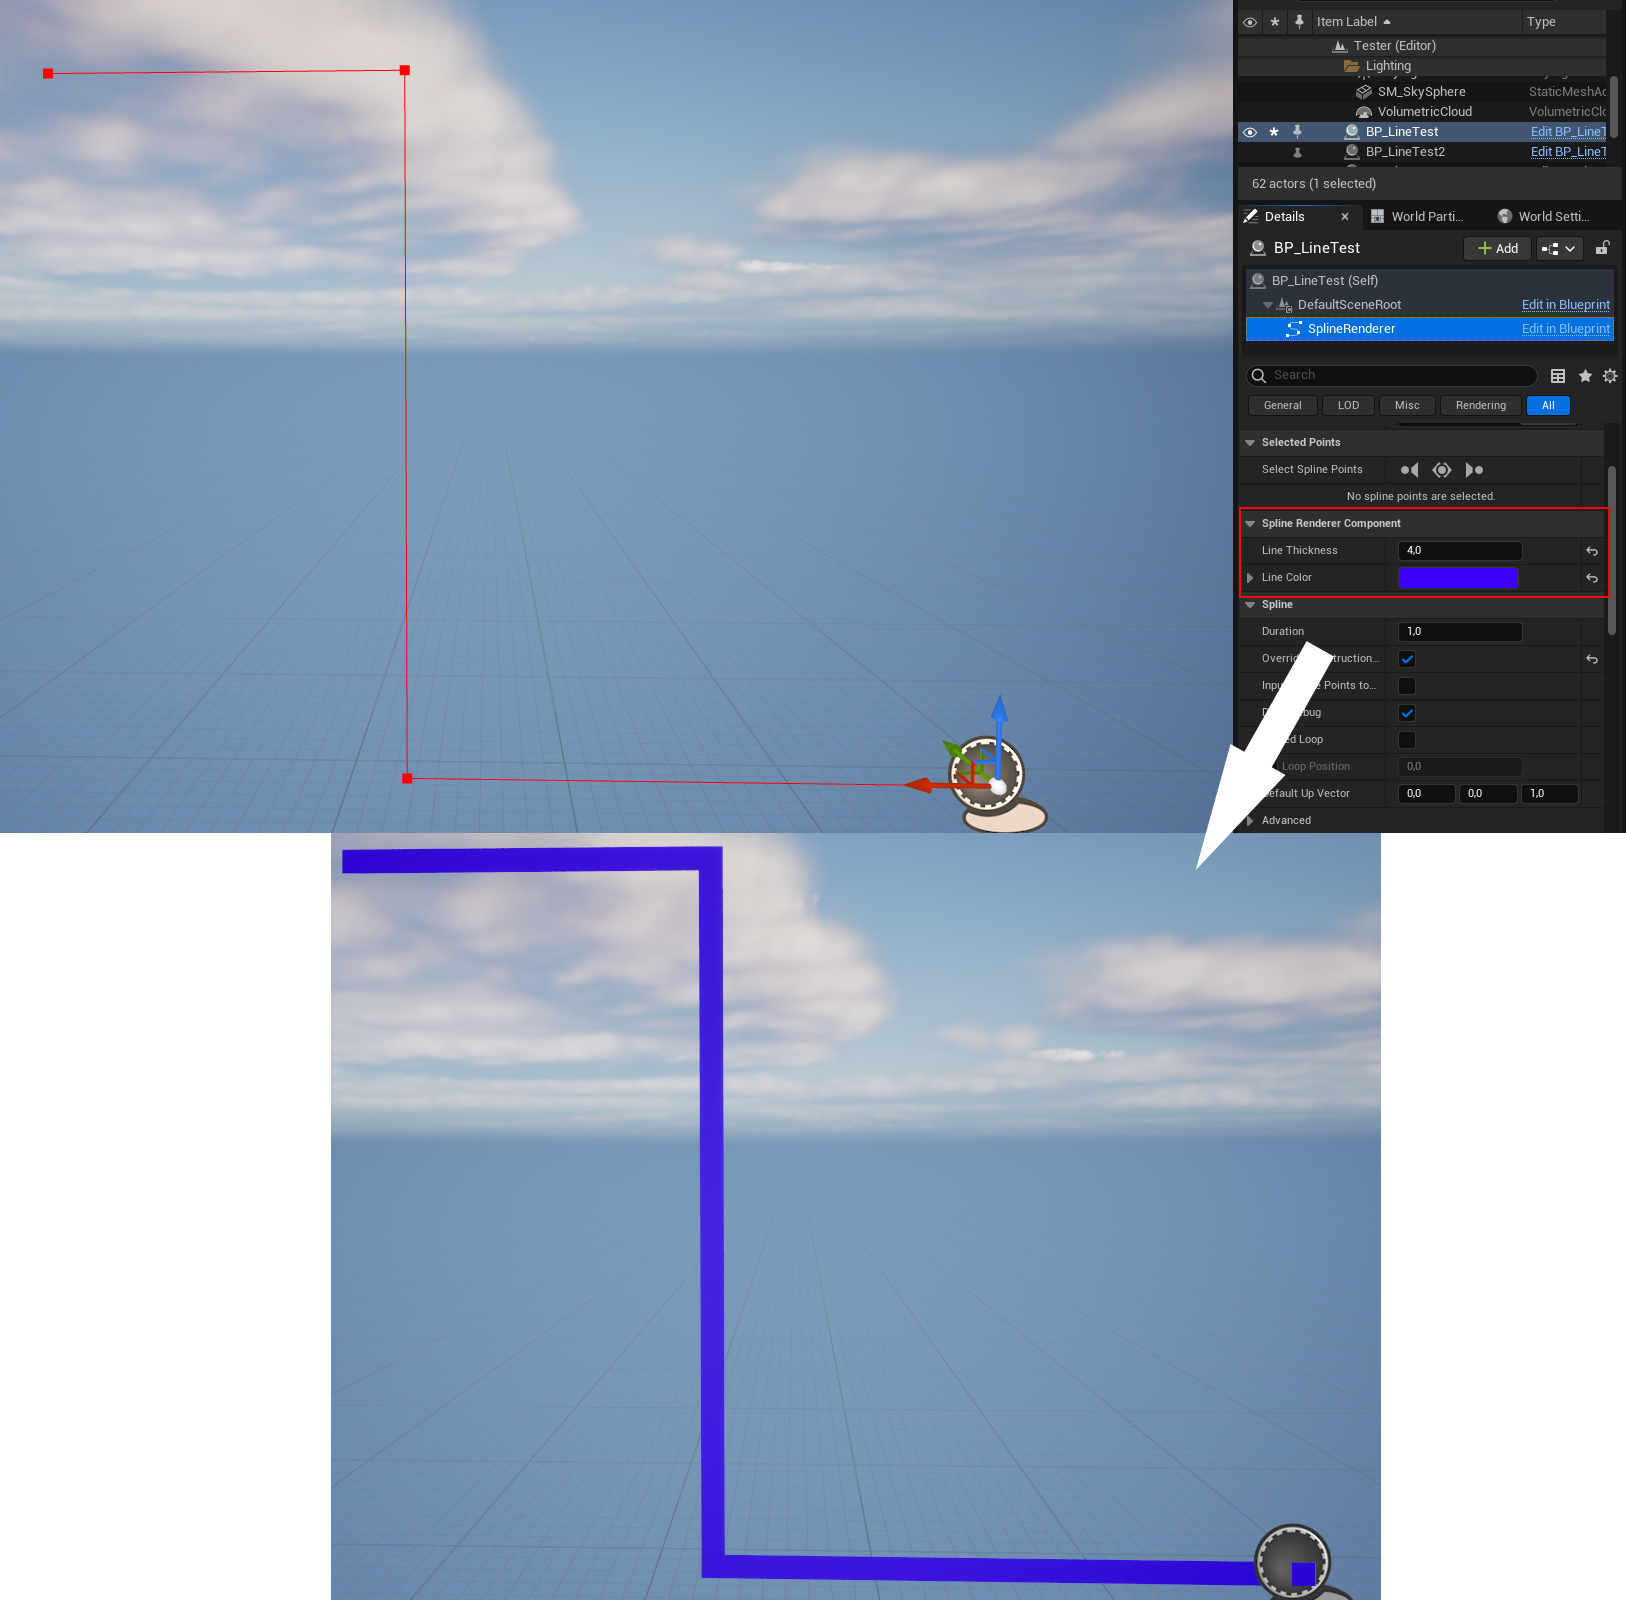
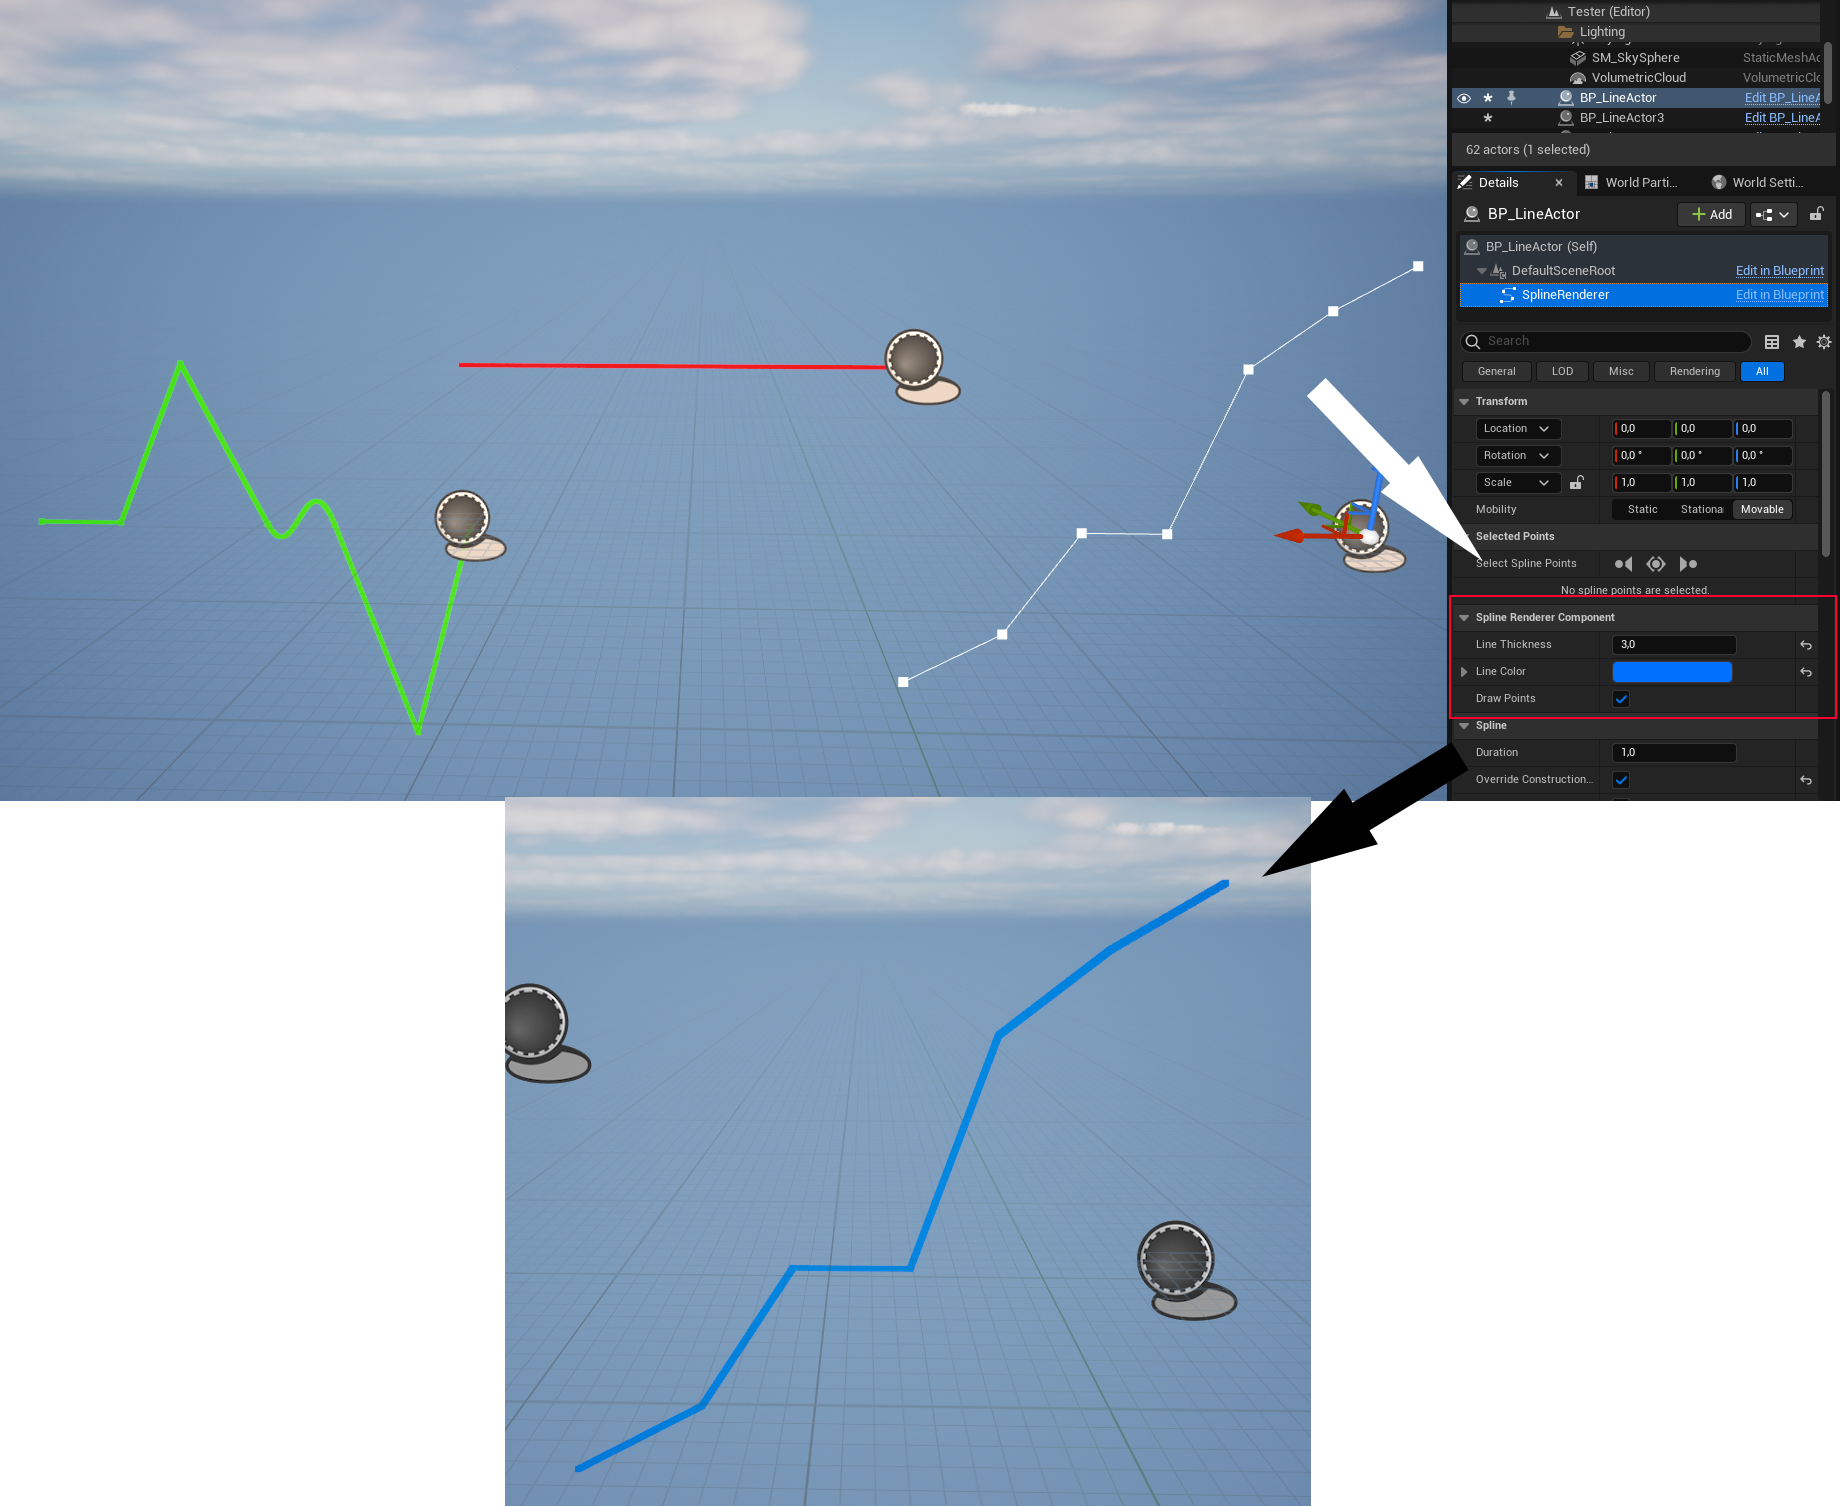
Drawing points
Added option to disable drawing points on spline

diff --git a/SplineRendererComponent/Source/SplineRendererComponent/Private/SplineRendererComponent.cpp b/SplineRendererComponent/Source/SplineRendererComponent/Private/SplineRendererComponent.cpp
@@ -3,6 +3,7 @@
 USplineRendererComponent::USplineRendererComponent()
 	: LineThickness(1.f)
 	, LineColor(FLinearColor::White)
+	, DrawPoints(true)
 {}
 
 FPrimitiveSceneProxy* USplineRendererComponent::CreateSceneProxy()
@@ -21,6 +22,7 @@ FPrimitiveSceneProxy* USplineRendererComponent::CreateSceneProxy()
 			, SplineInfo(InComponent->SplineCurves.Position)
 			, LineColor(InComponent->LineColor)
 			, Thickness(InComponent->LineThickness)
+			, DrawPoints(InComponent->DrawPoints)
 		{}
 
 		virtual void GetDynamicMeshElements(const TArray<const FSceneView*>& Views, const FSceneViewFamily& ViewFamily, uint32 VisibilityMap, FMeshElementCollector& Collector) const override
@@ -48,7 +50,7 @@ FPrimitiveSceneProxy* USplineRendererComponent::CreateSceneProxy()
 						continue;
 					}
 
-					USplineRendererComponent::DrawSpline(PDI, View, SplineInfo, LocalToWorld, LineColor, SDPG_World, Thickness);
+					USplineRendererComponent::DrawSpline(PDI, View, SplineInfo, LocalToWorld, LineColor, SDPG_World, Thickness, DrawPoints);
 				}
 			}
 		}
@@ -70,12 +72,13 @@ FPrimitiveSceneProxy* USplineRendererComponent::CreateSceneProxy()
 		FInterpCurveVector SplineInfo;
 		FLinearColor LineColor;
 		float Thickness;
+		bool DrawPoints;
 	};
 
 	return new FSplineSceneProxy(this);
 }
 
-void USplineRendererComponent::DrawSpline(FPrimitiveDrawInterface* PDI, const FSceneView* View, const FInterpCurveVector& SplineInfo, const FMatrix& LocalToWorld, const FLinearColor& LineColor, uint8 DepthPriorityGroup, float Thickness)
+void USplineRendererComponent::DrawSpline(FPrimitiveDrawInterface* PDI, const FSceneView* View, const FInterpCurveVector& SplineInfo, const FMatrix& LocalToWorld, const FLinearColor& LineColor, uint8 DepthPriorityGroup, const float Thickness, const bool DrawPoints)
 {
 	const int32 GrabHandleSize = 6;
 	FVector OldKeyPos(0);
@@ -86,11 +89,14 @@ void USplineRendererComponent::DrawSpline(FPrimitiveDrawInterface* PDI, const FS
 	{
 		const FVector NewKeyPos = LocalToWorld.TransformPosition(SplineInfo.Eval(static_cast<float>(KeyIdx), FVector(0)));
 
-		// Draw the keypoint
-		if (KeyIdx < NumPoints)
+		if (DrawPoints == true)
 		{
-			PDI->DrawPoint(NewKeyPos, LineColor, GrabHandleSize, DepthPriorityGroup);
-		}
+			// Draw the keypoint
+			if (KeyIdx < NumPoints)
+			{
+				PDI->DrawPoint(NewKeyPos, LineColor, GrabHandleSize, DepthPriorityGroup);
+			}
+		}		
 
 		// If not the first keypoint, draw a line to the previous keypoint.
 		if (KeyIdx > 0)

diff --git a/SplineRendererComponent/Source/SplineRendererComponent/Public/SplineRendererComponent.h b/SplineRendererComponent/Source/SplineRendererComponent/Public/SplineRendererComponent.h
@@ -20,8 +20,11 @@ public:
 	UPROPERTY(EditAnywhere, meta = (DisplayName = "Line Color"))
 	FLinearColor LineColor;
 
+	UPROPERTY(EditAnywhere, meta = (DisplayName = "Draw Points"))
+	bool DrawPoints;
+
 private:
-	static void DrawSpline(FPrimitiveDrawInterface* PDI, const FSceneView* View, const FInterpCurveVector& SplineInfo, const FMatrix& LocalToWorld, const FLinearColor& LineColor, uint8 DepthPriorityGroup, float Thickness);
+	static void DrawSpline(FPrimitiveDrawInterface* PDI, const FSceneView* View, const FInterpCurveVector& SplineInfo, const FMatrix& LocalToWorld, const FLinearColor& LineColor, uint8 DepthPriorityGroup, const float Thickness, const bool DrawPoints);
 };
 
 

diff --git a/README.md b/README.md
@@ -23,8 +23,9 @@ Follow these steps:
 
 1) Add Spline Renderer Component to an Actor blueprint:
 <img src="SplineRendererComponent/Resources/AddComponent.png">
-2) Set Thickness and Line Color under Spline Renderer Component:
+2) Set Thickness, Point drawing and Line Color under Spline Renderer Component:
 <img src="SplineRendererComponent/Resources/Example1.png">
+<img src="SplineRendererComponent/Resources/Example2.png">
 3) Enjoy :)
 
 Tested under Unreal 5.x
